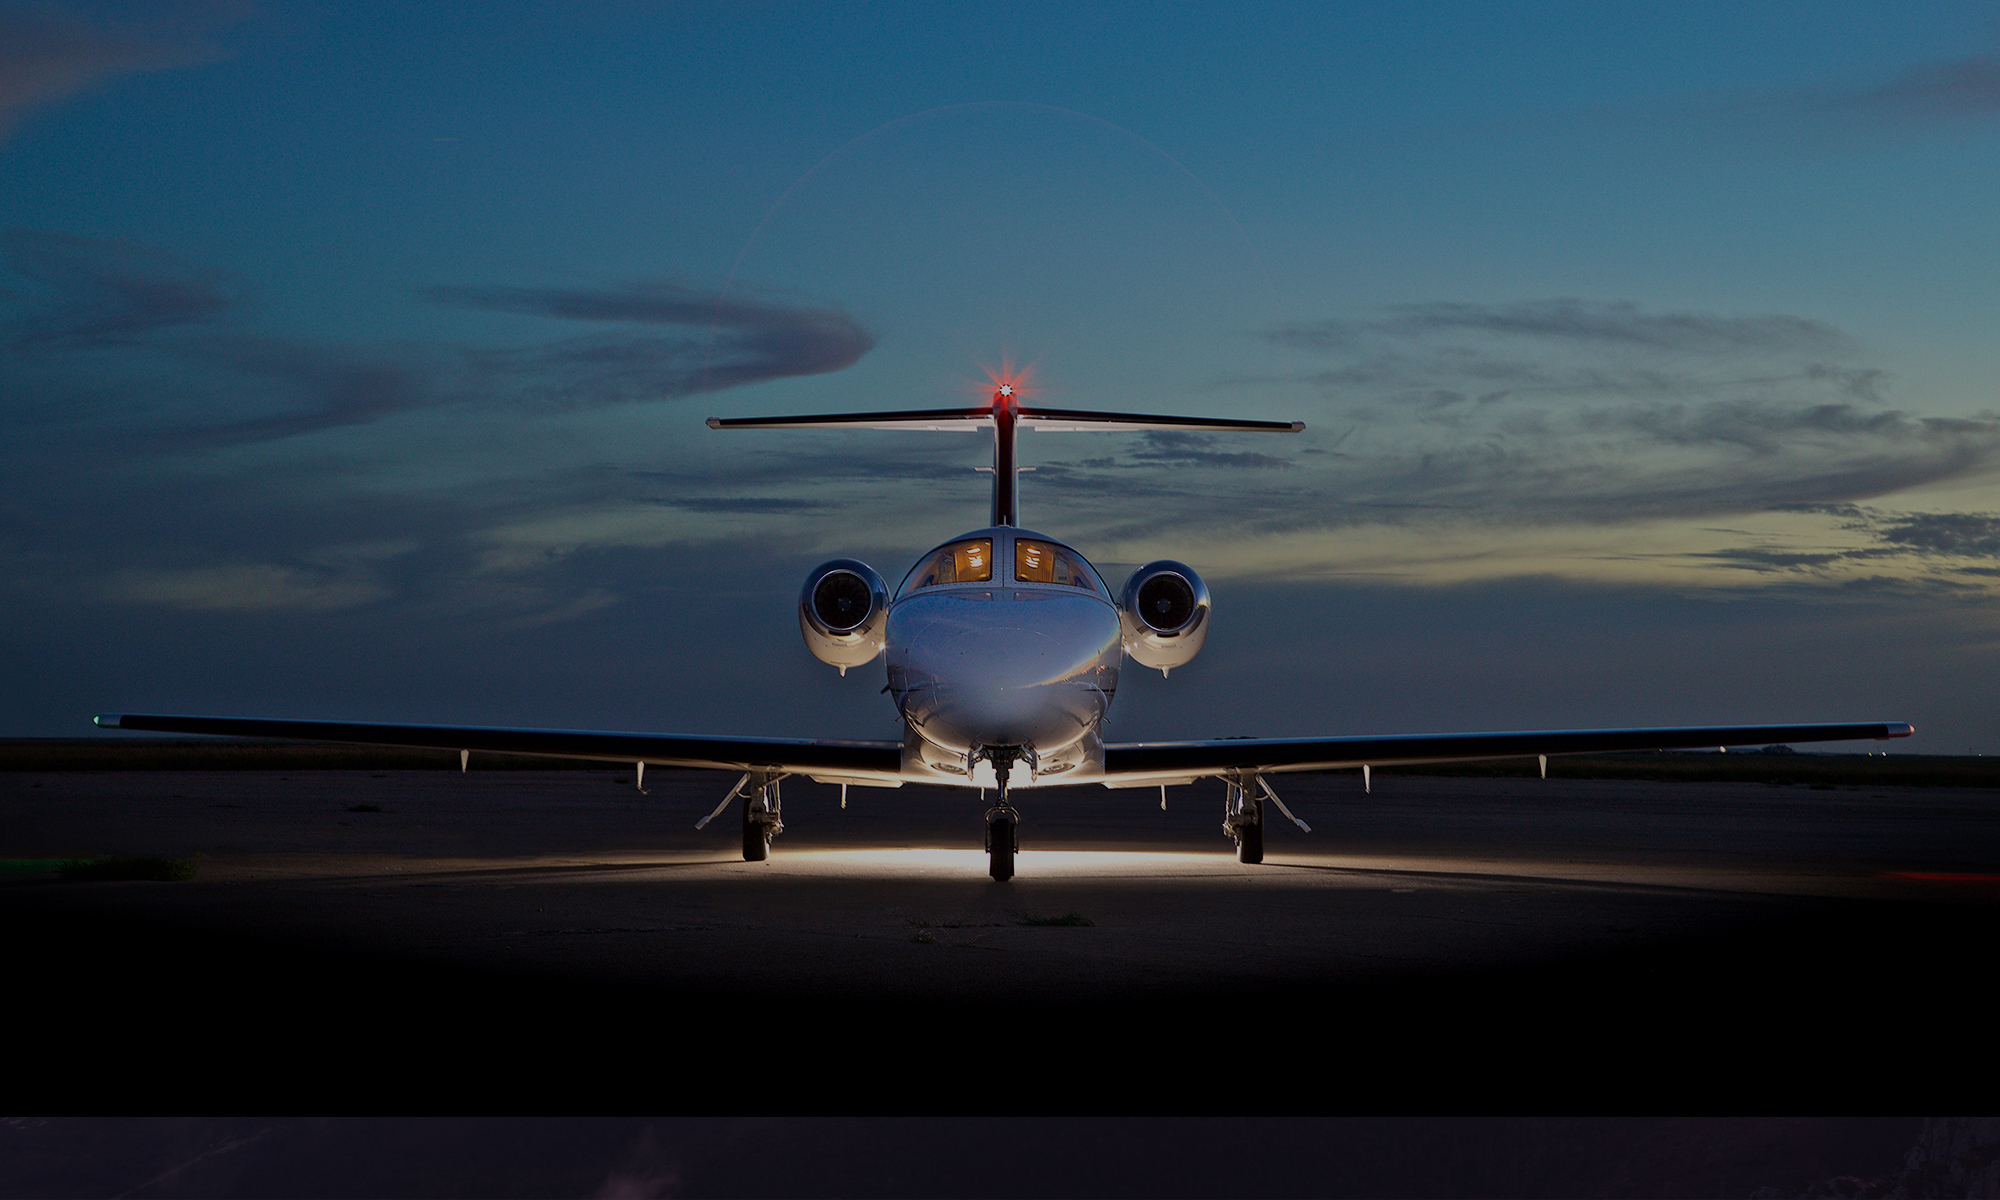
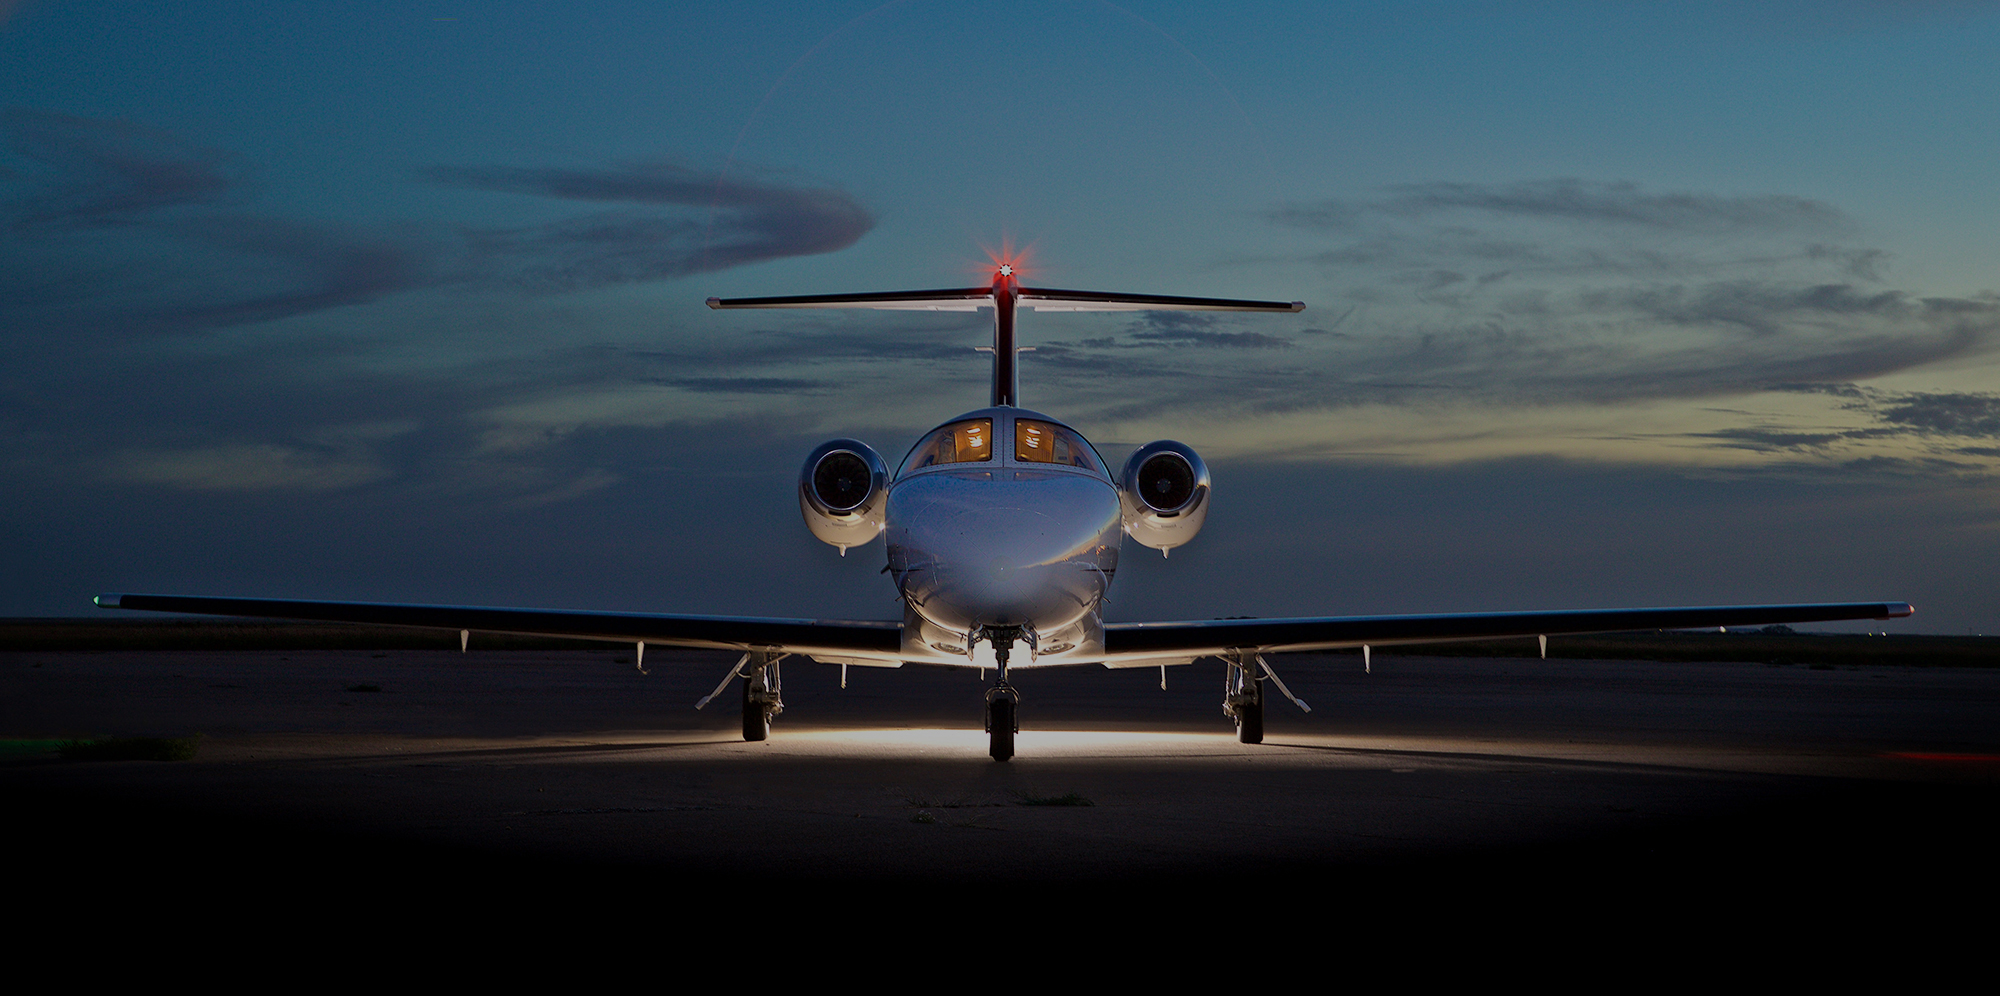
fixed bkg

diff --git a/_site/assets/main.css b/_site/assets/main.css
@@ -1378,6 +1378,9 @@ html[xmlns] .flexslider .slides {
   .browse {
     padding: 0; } }
 @media (max-width: 767px) {
+  .hero-home {
+    height: 996px; }
+
   .home-logo {
     max-width: 20rem;
     margin-top: 4rem; }

diff --git a/_sass/_cta-sidebar.sass b/_sass/_cta-sidebar.sass
@@ -188,6 +188,8 @@
     padding: 0
 
 @media (max-width: 767px)
+  .hero-home
+    height: 996px
   .home-logo
     max-width: 20rem
     margin-top: 4rem
